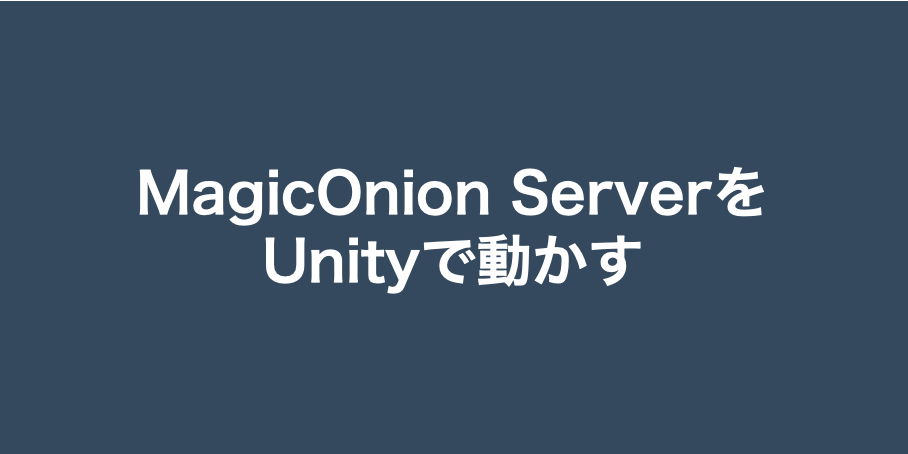
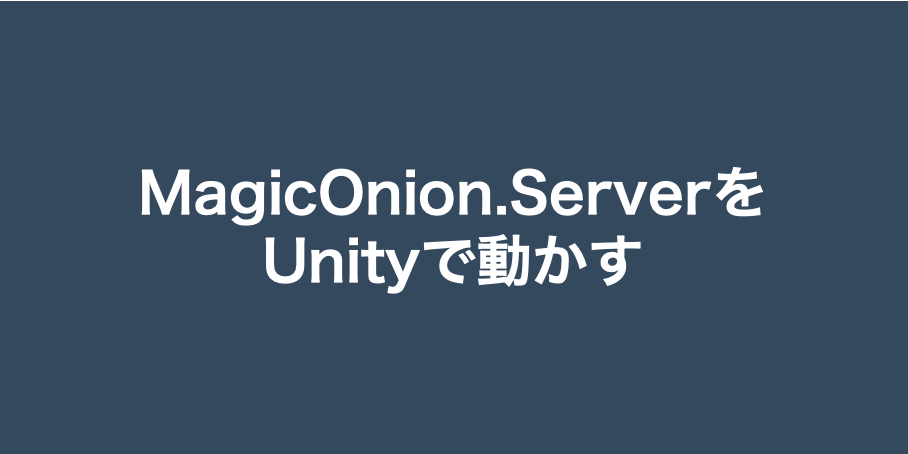
:sparkless: Add magiconion hosting entry

Changed region(s): [[0.1542, 0.37, 0.8326, 0.4934]]

diff --git a/content/posts/magiconion-server-on-unity/index.md b/content/posts/magiconion-server-on-unity/index.md
@@ -1,5 +1,5 @@
 ---
-title: "MagicOnion ServerをUnityで動かす"
+title: "MagicOnion.ServerをUnityで動かす"
 date: 2020-04-14T11:25:21+09:00
 description: "MagicOnion ServerをUnity(Monoランタイム)でも動かすことができたので紹介します。"
 meta_image: "posts/magiconion-server-on-unity/ogp.png"
@@ -25,7 +25,7 @@ https://github.com/Cysharp/MagicOnion
 開発者の@neueccさんによる資料がたいへん参考になります。
 <iframe src="//www.slideshare.net/slideshow/embed_code/key/s9FspXgoqnZxvL" width="595" height="485" frameborder="0" marginwidth="0" marginheight="0" scrolling="no" style="border:1px solid #CCC; border-width:1px; margin-bottom:5px; max-width: 100%;" allowfullscreen> </iframe> <div style="margin-bottom:5px"> <strong> <a href="//www.slideshare.net/neuecc/unitymagiconionc" title="Unityによるリアルタイム通信とMagicOnionによるC#大統一理論の実現" target="_blank">Unityによるリアルタイム通信とMagicOnionによるC#大統一理論の実現</a> </strong> from <strong><a href="https://www.slideshare.net/neuecc" target="_blank">Yoshifumi Kawai</a></strong> </div>
 
-## MagicOnion ServerをUnityで動かす
+## MagicOnion.ServerをUnityで動かす
 本題です。
 MagicOnionはC#で一貫した開発体験を提供してくれますが、さらにUnityで一貫させることはできないのか？と思い、試してみました。
 UnityにはServer Buildというビルドオプションがあるので、これを使ってUnityをHeadlessモードでビルド、コンソールアプリとして実行することができるようになっています。
@@ -98,6 +98,9 @@ ref var v = ref values[i];
 MagicOnionのサーバ実装は.NET CoreしかサポートされてないしUnityでは無理かな〜と思っていたのですが、意外にも(動かすだけなら)すんなりと動かせてしまったので驚いています。
 ただ、実際に実装する際に推奨されている`MagicOnion.Hosting`を使った場合の動作確認まではできていないので今後検証したいと思っています。
 できれば.NET Generic Hostに乗っかっておきたいですからね。
+**2020/04/28 追記**
+`MagicOnion.Hosting`の動作検証しました。
+[Magiconion.HostingをUnityで動かす](https://blog.konnyaku256.dev/posts/magiconion-hosting-on-unity/)
 
-MagicOnion ServerをUnityで動かした場合、Unityの物理演算やゲームロジック、AIをそのままサーバ側に持たせることができるので、クライアントからサーバまでのゲーム開発を完全にUnityで一貫、コードも共通化させることができそうです。
+MagicOnion.ServerをUnityで動かした場合、Unityの物理演算やゲームロジック、AIをそのままサーバ側に持たせることができるので、クライアントからサーバまでのゲーム開発を完全にUnityで一貫、コードも共通化させることができそうです。
 Unity Server Buildでのパフォーマンスが通常のサーバアプリケーションと比べると気になりますが、開発効率向上の点で今後期待できそうでした。

diff --git a/content/posts/magiconion-hosting-on-unity/index.md b/content/posts/magiconion-hosting-on-unity/index.md
@@ -1,0 +1,49 @@
+---
+title: "MagicOnion.HostingをUnityで動かす"
+date: 2020-04-28T01:05:59+09:00
+description: "MagicOnion.HostingをUnity(Monoランタイム)でも動かすことに成功しました。"
+meta_image: "posts/magiconion-hosting-on-unity/ogp.png"
+tags:
+- MagicOnion
+- gRPC
+- Unity
+draft: false
+---
+
+## 前置き
+`MagicOnion.Server`をホスティングするにあたって、推奨の`MagicOnion.Hosting`は.NETアプリにおける汎用的なホスティング機能の`Microsoft.Extensions.Hosting`に基づいているため、そのノウハウの恩恵を受けつつより柔軟な設定を行うことができるようになっています。(`Microsoft.Extensions.Hosting`については[.NET Generic Host](https://docs.microsoft.com/en-us/aspnet/core/fundamentals/host/generic-host?view=aspnetcore-2.2)が詳しい)
+そこで今回は、[前回](https://blog.konnyaku256.dev/posts/magiconion-server-on-unity/)の投稿で未検証となっていた`MagicOnion.Hosting`を用いた場合の検証結果について共有します。
+
+## MagicOnion.HostingをUnityで動かす
+以下、動いたところまで手順を共有します。
+
+### 確認環境
+- Unity 2019.3.5f1
+- MagicOnion 3.0.11
+- MessagePack for C# 2.1.90
+- gRPC for C# 2.27.0
+
+前回までの手順が完了していることが前提です。
+
+### MagicOnion.Hostingを追加する
+https://github.com/Cysharp/MagicOnion/tree/master/src/MagicOnion.Hosting から.NET Core用の`MagicOnion.Hosting`を追加で取り込みました。
+
+### Microsoft.Extensions.Hostingとその依存関係を全て取り込む
+`MagicOnion.Hosting`は`Microsoft.Extensions.Hosting`を必要とするのでそれらを取り込みました。
+依存関係が多いため、Unity用NuGet Package Managerの[NuGetForUnity](https://github.com/GlitchEnzo/NuGetForUnity)を使いました。
+
+### dllの重複を解消する
+前回追加していた
+- System.Buffers.dll
+- System.Memory.dll
+- System.Runtime.CompilerServices.Unsafe.dll
+- System.Threading.Tasks.Extensions.dll
+
+のdllが重複してしまったのでNuGetForUnityで取り込んだほうを削除しました。
+
+以上で`MagicOnion.Hosting`がUnityで動くようになりました。
+
+## 課題点
+ここまでで動きはした...のですが、実際のところはUnity Editor上で実行すると実行時に`Unloading broken assembly xxx.dll, this assembly can cause crashes in the runtime`のようなエラーが発生してしまいます。(動作上の問題はありません)
+ビルド時にはこれがWarningに変わるので、取り込み方に問題があってプロジェクトのアセンブリ参照がバグっているような気がしています。
+この問題は解決次第、更新したいと思います。
